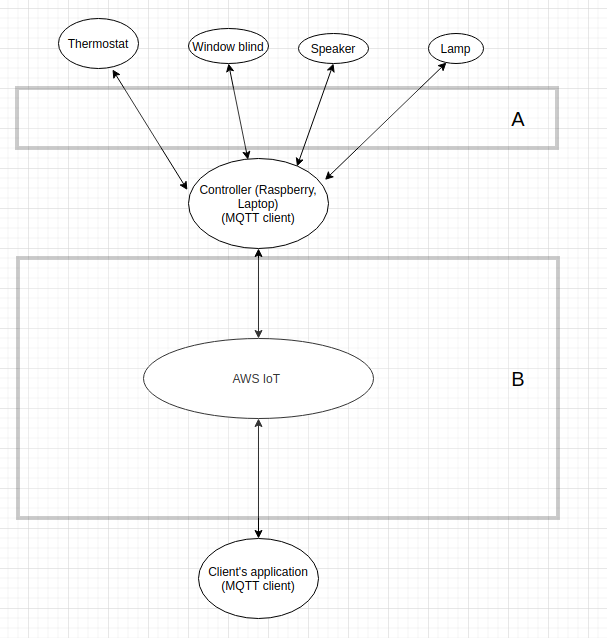
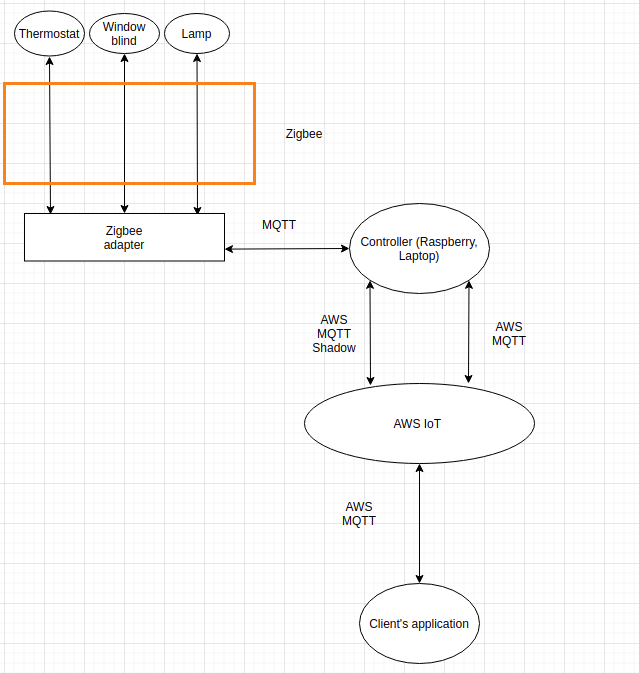
updated readme

diff --git a/readme.md b/readme.md
@@ -1,56 +1,13 @@
 # IoT Project - Smart Home
-
-## Policy
-**theme-controller-Policy** and **theme-application-Policy**
-<pre>   
-{  
-  "Version": "2012-10-17",  
-  "Statement": [  
-    {  
-      "Effect": "Allow",  
-      "Action": [  
-        "iot:Publish",  
-        "iot:Receive"  
-      ],  
-      "Resource": [  
-        "arn:aws:iot:us-east-1:478545304112:topic/theme/sensors/reported",  
-        "arn:aws:iot:us-east-1:478545304112:topic/theme/actuators/desired"  
-      ]  
-    },  
-    {  
-      "Effect": "Allow",  
-      "Action": [  
-        "iot:Subscribe"  
-      ],  
-      "Resource": [  
-        "arn:aws:iot:us-east-1:478545304112:topicfilter/theme/sensors/reported",  
-        "arn:aws:iot:us-east-1:478545304112:topicfilter/theme/actuators/desired"  
-      ]  
-    },  
-    {  
-      "Effect": "Allow",  
-      "Action": [  
-        "iot:Connect"  
-      ],  
-      "Resource": [  
-        "arn:aws:iot:us-east-1:478545304112:client/theme-controller",  
-        "arn:aws:iot:us-east-1:478545304112:client/theme-application"  
-      ]  
-    }  
-  ]  
-}  
-</pre>
+This project is a POC of a system allowing users to manage their home devices in order to change home themes.
 
 ## Devices 
 * Lamp - https://www.zigbee2mqtt.io/devices/AU-A1GSZ9RGBW.html
 * Thermostat - https://www.zigbee2mqtt.io/devices/Zen-01-W.html
 * Curtains - https://www.zigbee2mqtt.io/devices/W40CZ.html
-* Speaker - https://www.mediaexpert.pl/komputery-i-tablety/akcesoria-komputerowe/glosniki-komputerowe/glosniki-trust-remo-2-0-speaker-set?gclid=CjwKCAiAudD_BRBXEiwAudakX1TzMnU0TK4Qkwo9jno1q-ObeIbjTx-fI241vYgENOZcuECtPQPCXhoCSGoQAvD_BwE
 
 ## System diagram
 <div style="text-align:center"><img src="readme_img/diag.png" /></div>
-
-## Installation
 
 ## Run
 ```console
@@ -59,8 +16,4 @@ python simulator/simulator.py
 python controller/controller.py
 python app/app.py
 ```
-
-To stop a mosquitto broker type:
-```console
-sudo service mosquitto stop
-```
+Also you have to be running zigbee software, you can download it from https://www.zigbee2mqtt.io/.  
